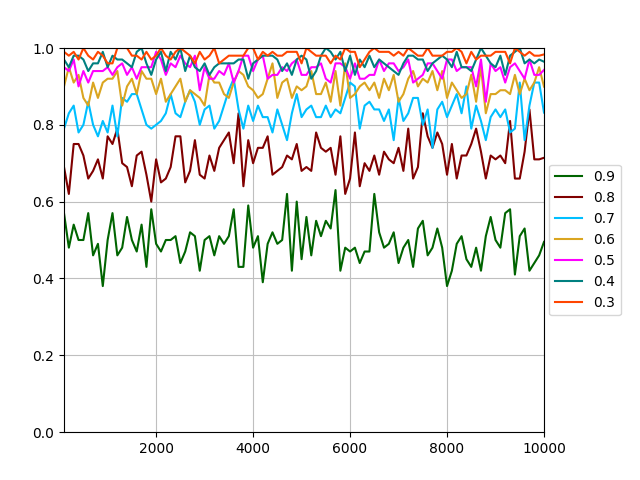
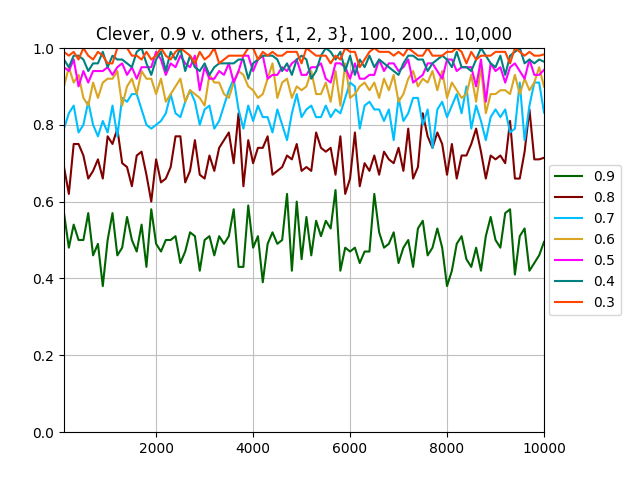
Titling

Changed region(s): [[0.1562, 0.0312, 0.6875, 0.0938], [0.7188, 0.0312, 0.8125, 0.0938]]

diff --git a/graphing.py b/graphing.py
@@ -25,7 +25,7 @@ if __name__ == "__main__":
       for i in range(1, 8):
         col = df.iloc[3:103, i].to_list()
         plt.plot(xax, col, color=colors[i])
-      plt.title = title
+      plt.title(title)
       plt.grid(axis='both', color='0.75')
       plt.legend(['0.9', '0.8', '0.7', '0.6', '0.5', '0.4', '0.3'], 
                  bbox_to_anchor = (1.175, 0.5), loc='center right')
